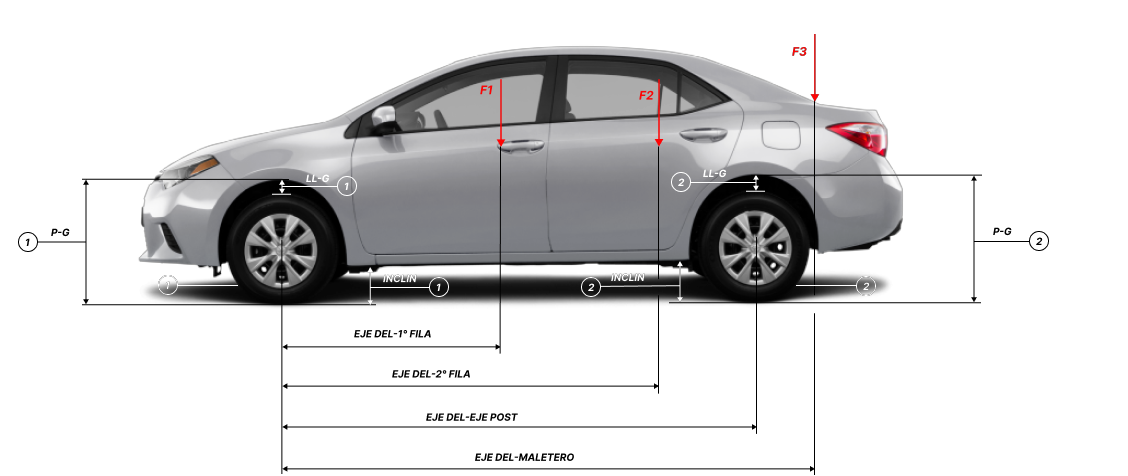
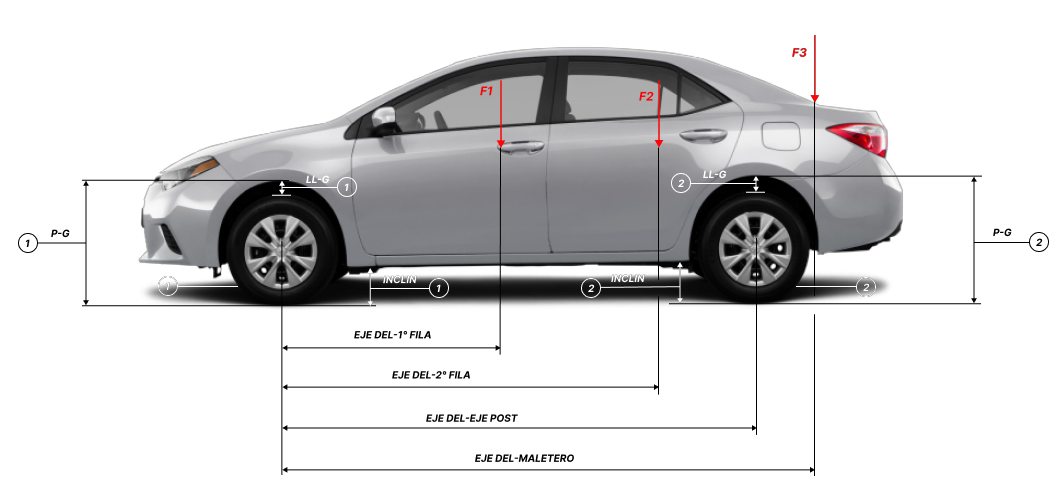
vehicle images with data cells

diff --git a/src/components/Design/VehicleDimentions/VehicleDimentions.js b/src/components/Design/VehicleDimentions/VehicleDimentions.js
@@ -1,7 +1,11 @@
 import { useState } from "react"
 //import Input from "../../Input"
-import { DimentionsInput, Wrapper, Label, DimentionsContainer } from "./styles"
+import styled from "@emotion/styled";
+import { colors } from "../../../styles/colors";
+import { Wrapper, Label, DimentionsContainer, DivContainer, Lado, SpanDot, Next } from "./styles"
 import { Switch } from "@mui/material";
+import Slideshow from "./script";
+import { DimentionsInput } from "./DimentionsInput";
 
 export function VehicleDimentions(){
 	const [vehicleDimentions, setVehicleDimentions] = useState({
@@ -45,13 +49,15 @@ export function VehicleDimentions(){
     return(
 		<Wrapper>
           <Label>Modo imagen<Switch onChange= {handleChange} size="big"/>Modo tabla</Label>
-            <img src="/Images/Component-58-Izq.webp" align="center" width="100%" />
+		  <Slideshow/>
+			
+
             
-			<div> 
+			<div style={{display: "flex", columnGap: 50, marginTop: 50, justifyContent: "center"}}> 
 			 <DimentionsContainer>
 				 <label>DEL IZQ</label>
-			     <DimentionsInput id="pgDel_Izq" title ="P-G" value={vehicleDimentions.pgDel_Izq} onChange={(e)=>setVehicleDimentions({...vehicleDimentions, pgDel_Izq:e.target.value})}/>
-			     <DimentionsInput id="llgDel_Izq" title ="LL-G" value={vehicleDimentions.llgDel_Izq} onChange={(e)=>setVehicleDimentions({...vehicleDimentions, llgDel_Izq:e.target.value})}/>
+			     <DimentionsInput title="P-G" value={vehicleDimentions.pgDel_Izq} onChange={(e)=>setVehicleDimentions({...vehicleDimentions, pgDel_Izq:e.target.value})} id="pgDel_Izq" />
+			     <DimentionsInput title="LL-G" value={vehicleDimentions.llgDel_Izq} onChange={(e)=>setVehicleDimentions({...vehicleDimentions, llgDel_Izq:e.target.value})} id="llgDel_Izq" />
 			     <DimentionsInput id="pesoDel_Izq1" title ="PESO 1" value={vehicleDimentions.pesoDel_Izq1} onChange={(e)=>setVehicleDimentions({...vehicleDimentions, pesoDel_Izq1:e.target.value})}/>
 			     <DimentionsInput id="pesoDel_Izq2" title ="PESO 2" value={vehicleDimentions.pgDel_Izq} onChange={(e)=>setVehicleDimentions({...vehicleDimentions, pgDel_Izq:e.target.value})}/>
 			     <DimentionsInput id="pesoDel_Izq3" title ="PESO 3" value={vehicleDimentions.pgDel_Izq} onChange={(e)=>setVehicleDimentions({...vehicleDimentions, pgDel_Izq:e.target.value})}/>
@@ -68,6 +74,7 @@ export function VehicleDimentions(){
 			 </DimentionsContainer>
              
              <DimentionsContainer>
+			     <label></label>
 				 <DimentionsInput id="frontWheel_firstline" title ="EJE DEL-1° FILA" value={vehicleDimentions.frontWheel_firstline} onChange={(e)=>setVehicleDimentions({...vehicleDimentions, frontWheel_firstline:e.target.value})}/>
 			     <DimentionsInput id="frontWheel_secondline" title ="EJE DEL-2° FILA" value={vehicleDimentions.frontWheel_secondline} onChange={(e)=>setVehicleDimentions({...vehicleDimentions, frontWheel_secondline:e.target.value})}/>
 				 <DimentionsInput id="frontWheel_rearWheel" title ="EJE DEL-EJE POST" value={vehicleDimentions.frontWheel_rearWheel} onChange={(e)=>setVehicleDimentions({...vehicleDimentions, frontWheel_rearWheel:e.target.value})}/>

diff --git a/src/components/Design/VehicleDimentions/script.js b/src/components/Design/VehicleDimentions/script.js
@@ -1,0 +1,73 @@
+import React, { useState, useEffect } from 'react';
+import { DivContainer, Next, Lado, SpanDot } from './styles';
+
+const Slideshow = () => {
+  const [slideIndex, setSlideIndex] = useState(1);
+
+  const plusSlides = (n) => {
+    showSlides(slideIndex + n);
+  };
+
+  const currentSlide = (n) => {
+    showSlides(n);
+  };
+
+  const showSlides = (n) => {
+    const slides = document.getElementsByClassName('mySlides');
+    const dots = document.getElementsByClassName('dot');
+
+    if (n > slides.length) {
+      setSlideIndex(1);
+    } else if (n < 1) {
+      setSlideIndex(slides.length);
+    } else {
+      setSlideIndex(n);
+    }
+
+    for (let i = 0; i < slides.length; i++) {
+      slides[i].style.display = 'none';
+    }
+
+    for (let i = 0; i < dots.length; i++) {
+      dots[i].className = dots[i].className.replace(' active', '');
+    }
+
+    slides[slideIndex - 1].style.display = 'block';
+    dots[slideIndex - 1].className += ' active';
+  };
+
+  useEffect(() => {
+    showSlides(slideIndex);
+  }, [slideIndex]);
+
+  return (
+    <DivContainer>
+      <div className="mySlides">
+        <Lado>LADO IZQUIERDO</Lado>
+        <img src="/Images/Component-58-Izq.webp" align="left" width="90%" />
+        
+      </div>
+
+      <div className="mySlides">
+        <Lado>LADO DERECHO</Lado>
+       <img src="/Images/Component-58-Der.webp" align="left" width="90%" />
+       
+      </div>
+
+      <Next className="prev" onClick={() => plusSlides(-1)}>
+        ❮
+      </Next>
+      <Next className="next" onClick={() => plusSlides(1)}>
+        ❯
+      </Next>
+
+      <div style={{ textAlign: 'center' }}>
+        <SpanDot className="dot" onClick={() => currentSlide(1)}></SpanDot>
+        <SpanDot className="dot" onClick={() => currentSlide(2)}></SpanDot>
+        
+      </div>
+    </DivContainer>
+  );
+};
+
+export default Slideshow;

diff --git a/src/components/Design/VehicleDimentions/styles.js b/src/components/Design/VehicleDimentions/styles.js
@@ -1,21 +1,23 @@
 import styled from "@emotion/styled";
 import { colors } from "../../../styles/colors";
+import { typography } from "../../../styles/typography";
+import { fonts } from "../../../styles/typography";
 
 export const Wrapper = styled.div`
 	display: grid;
-	
-	> div{
-		display: flex;
-		
-		gap: 6px;
-		width: 90%;
-	}
+  
 	label{
 		margin: 0;
 		color: ${colors.font.text};
 		margin-bottom: 0.5rem;
 		min-width: 170px;
 	}
+  input{
+   width: 70px;
+   height: 25px;
+   border-radius: 5px;
+   color: "black";
+  }
 	
 	@media(max-width: 1024px){
 		display:flex;
@@ -26,16 +28,51 @@ export const Wrapper = styled.div`
 export const DimentionsContainer = styled.div`
  
  display: grid;
- gap: 6px;
+ 
+ 
 `
 
-export const DimentionsInput = styled.input`
-  width: 55px;
-  height: 25px;
-  border-radius: 5px;
-  color: "black";
-  
-`
 export const Label = styled.label`
  color: ${colors.font.text};
+`
+export const DivContainer = styled.div`
+  position: relative;
+  
+`
+export const Lado = styled.div`
+  color: ${colors.font.text}; 
+  display: flex;
+  justify-content: right;
+  margin-right: 130px;
+  font-family: ${fonts.primary};
+  ${typography.text.md};
+  font-weight: bold;
+  font-style: italic;
+   
+`
+export const SpanDot = styled.span`
+  cursor: pointer;
+  height: 15px;
+  width: 15px;
+  margin: 0 2px;
+  background-color: #bbb;
+  border-radius: 50%;
+  display: inline-block;
+  transition: background-color 0.6s ease;
+  :hover {background-color: #717171; }
+
+`
+export const Next = styled.a`
+  cursor: pointer;
+  position: absolute;
+  top: 50%;
+  width: auto;
+  padding: 16px;
+  margin-top: -22px;
+  color: white;
+  font-weight: bold;
+  font-size: 18px;
+  transition: 0.6s ease;
+  border-radius: 0 3px 3px 0;
+  :hover {background-color: rgba(0,0,0,0.8);}
 `

diff --git a/src/components/Design/VehicleDimentions/DimentionsInput.js b/src/components/Design/VehicleDimentions/DimentionsInput.js
@@ -1,8 +1,9 @@
 import { Wrapper } from "./styles";
 
+
 export function DimentionsInput({title, value, onChange, id}){
 	return(
-		<Wrapper>
+		<Wrapper style={{display: "flex", }}>
 			<label for={id}>{title}</label>
 			<input id={id} value={value} onChange={onChange}/>
 		</Wrapper>

diff --git a/src/components/Input/styles.js b/src/components/Input/styles.js
@@ -2,7 +2,7 @@ import styled from "@emotion/styled";
 import { colors } from "../../styles/colors";
 
 export const Wrapper = styled.div`
-  display: flex;
+    display: flex;
 	justify-content: space-between;
 	width: 100%;
 	max-width: 500px;
